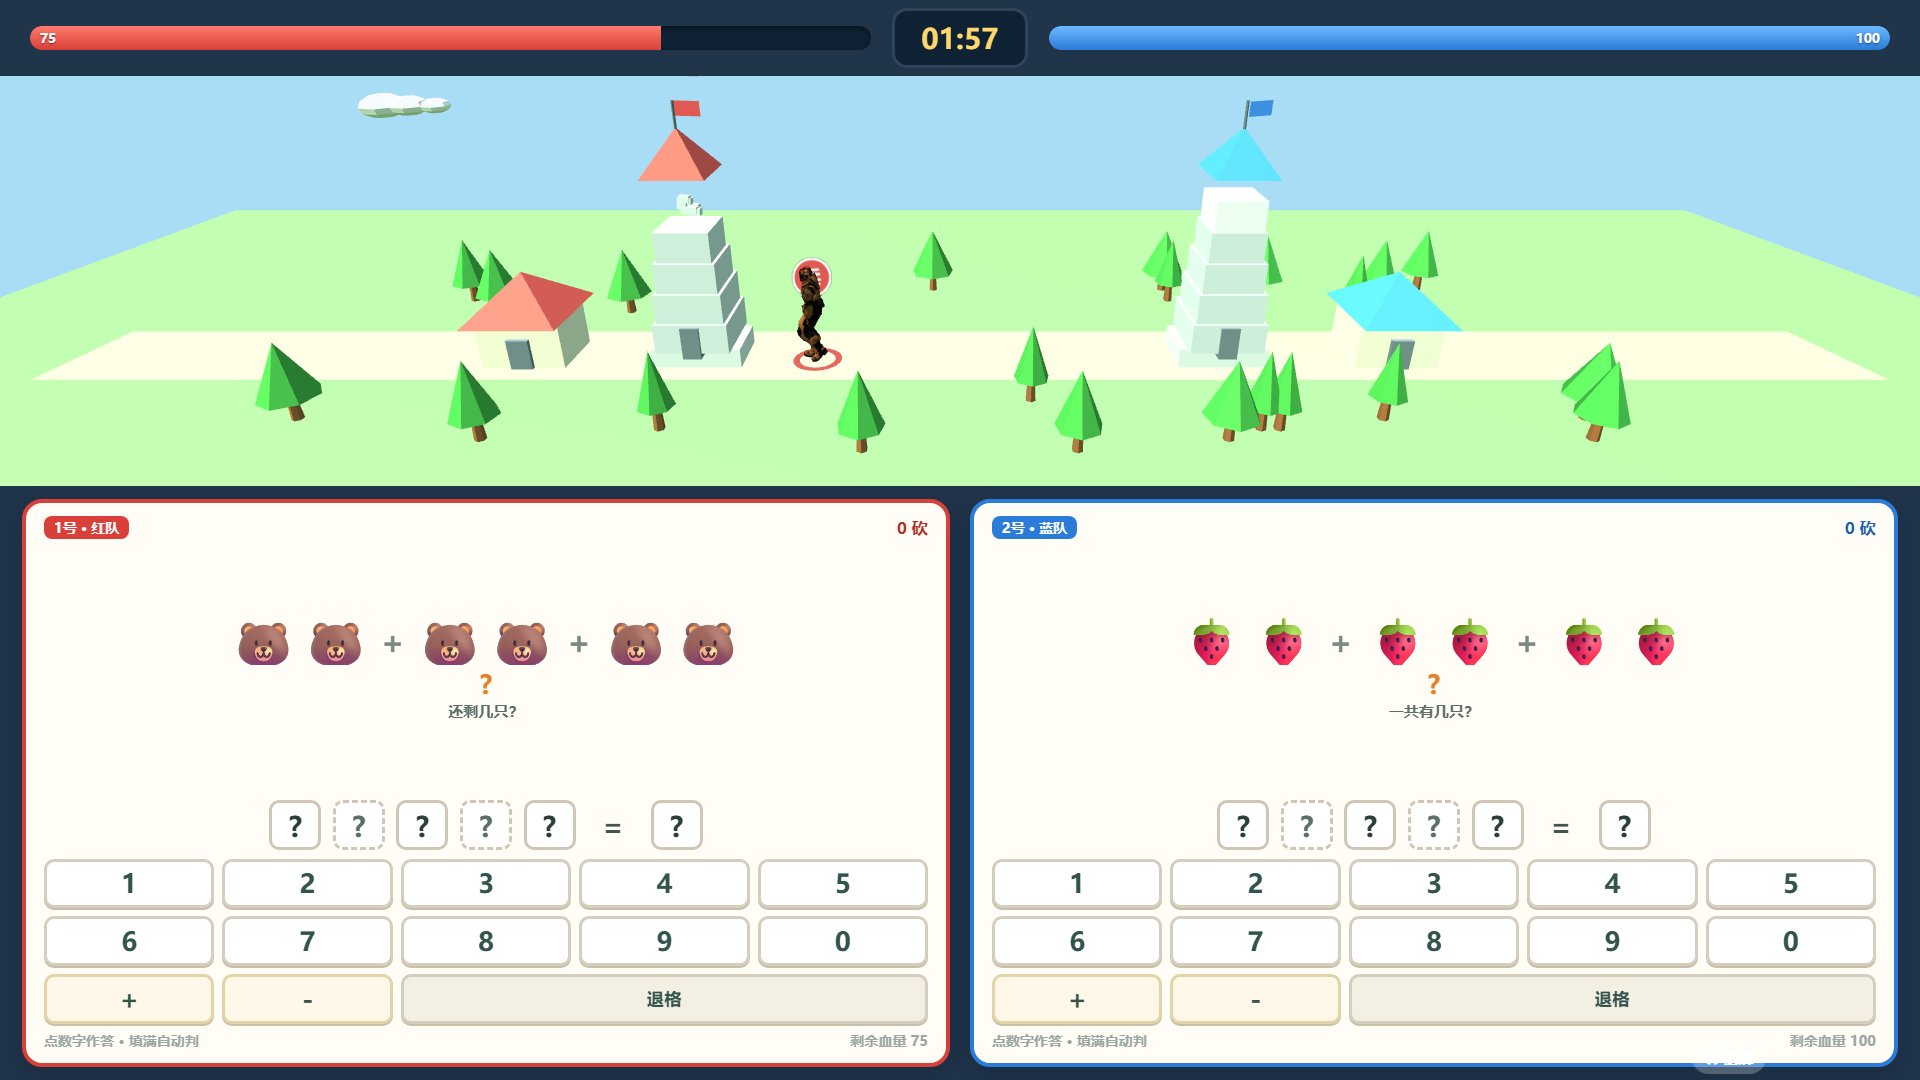
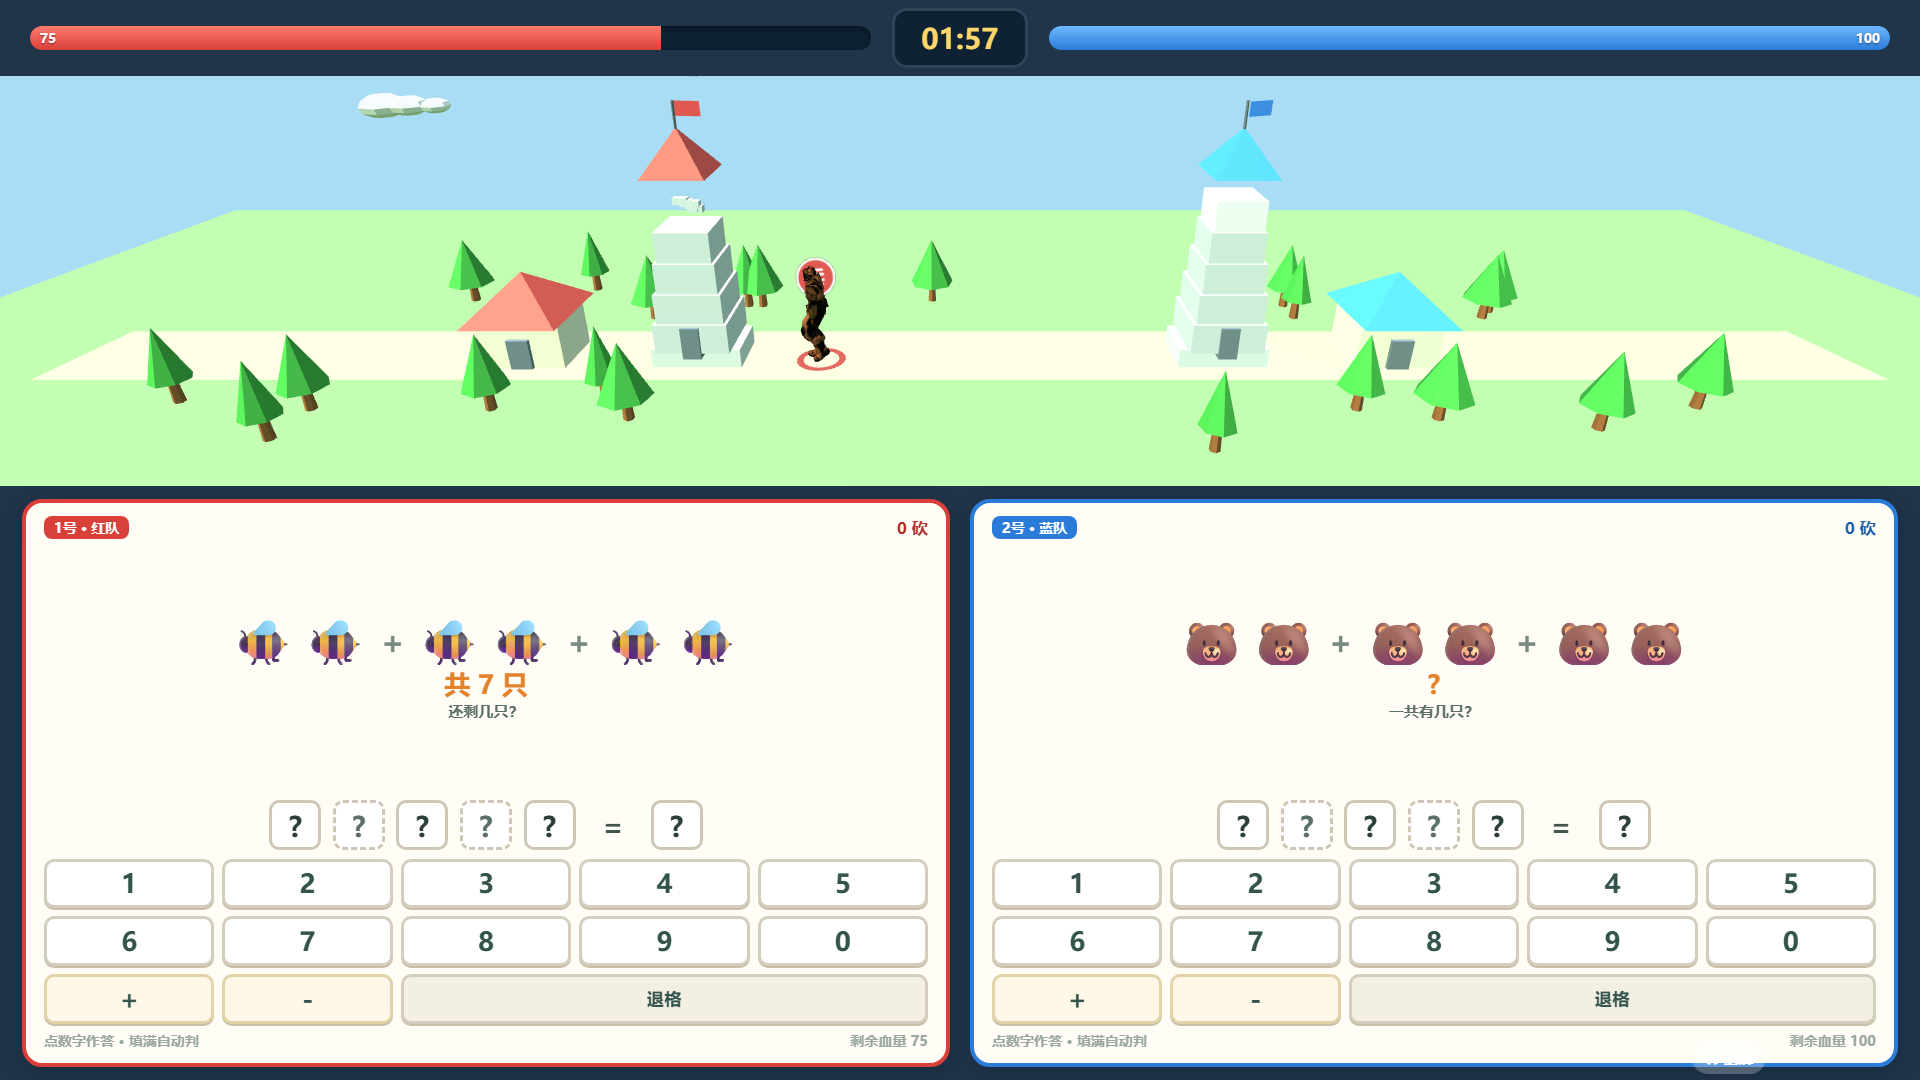
推塔对战重写核心：判定集中为judgeEquation(规则表见需求文档20)；连减图改总数在前不划+标共N只(修复2+2+2=6被判错的歧义)；想加算减宽容真正生效(原条件恒假bug)；运算符落槽修复(第二符号被覆盖致连加减永判错)；答对-51=6次推平

diff --git a/小学一年级/推塔口算对战.html b/小学一年级/推塔口算对战.html
@@ -226,9 +226,10 @@ function buildQuestion(){
     const a=1+rand(5),b=1+rand(8-a),c=1+rand(10-a-b);
     return {kind:roll,arity:3,op:'+',nums:[a,b,c],res:a+b+c,fig:fig([[a,false],[b,false],[c,false]],'?'),qtext:'一共有几只？'};
   }
-  if(roll==='sub3'){         /* 连减 ▢-▢-▢=▢（划掉两组） */
-    const t=5+rand(6),b1=1+rand(2),b2=1+rand(Math.max(1,Math.min(3,t-b1-1)));
-    return {kind:roll,arity:3,op:'-',nums:[t,b1,b2],res:t-b1-b2,fig:fig([[t-b1-b2,false],[b1,true],[b2,true]],'?'),qtext:'还剩几只？'};
+  if(roll==='sub3'){         /* 连减 ▢-▢-▢=▢（总数在前不划 → 划掉组在后，防歧义画法） */
+    const t=5+rand(6),b1=1+rand(2),b2=1+rand(Math.max(1,Math.min(3,t-b1-2)));
+    return {kind:roll,arity:3,op:'-',nums:[t,b1,b2],res:t-b1-b2,
+      fig:fig([[t,false],[b1,true],[b2,true]],'共 '+t+' 只'),qtext:'还剩几只？'};
   }
   /* plain：纯算式连加/连减 */
   if(Math.random()<.5){
@@ -361,10 +362,11 @@ function pressKey(ti,k){
     renderPanel(ti);return;
   }
   if(k==='+'||k==='-'){
-    let oi=0;
-    if(t.cur&&t.cur.startsWith('op'))oi=Number(t.cur[2]);
-    else{while(oi<t.q.arity-1&&t.ops[oi])oi++;if(oi>=t.q.arity-1)oi=t.q.arity-2;}
-    t.ops[oi]=k;t.cur='op'+oi;renderPanel(ti);return;
+    const nOp=t.q.arity-1;
+    let oi;
+    if(t.clicked&&t.cur&&t.cur.startsWith('op'))oi=Number(t.cur[2]);   /* 点选了符号槽：改这一位 */
+    else{oi=0;while(oi<nOp&&t.ops[oi])oi++;if(oi>=nOp)oi=nOp-1;}       /* 顺序：落第一个空符号槽 */
+    t.ops[oi]=k;t.cur='op'+oi;t.clicked=false;renderPanel(ti);return;
   }
   /* 数字：点选过的槽直接改；顺序作答落第一个空槽；
      刚落了 1 位的槽再按数字，能拼成 ≤10 的两位就拼（被减数 10 靠它输入） */
@@ -388,15 +390,32 @@ function pressKey(ti,k){
   if(filledNums&&allOps){judge(ti);return;}
   renderPanel(ti);
 }
+/* ================= 判定规则表（⚠ 唯一口径，改规则只动这个函数 + 需求文档表 + 回归断言） =================
+   ① add     看图求总数：op 全 '+'，数字与结果全匹配
+   ② part    求另一部分：标准 total−cut=res 且 '-'；
+             宽容（想加算减）：cut+res=total 或 res+cut=total 且 '+'
+   ③ add3    连加：op 全 '+'，数字与结果全匹配
+   ④ sub3    连减：op 全 '-'，数字与结果全匹配（不留加法宽容，防歧义）
+   ⑤ plain   纯算式：同 ③/④ */
+function judgeEquation(q,ans,ops){
+  const n=q.arity;
+  const okOps=[];for(let i=0;i<n-1;i++)okOps.push(ops[i]===q.op);
+  const numsOk=[];for(let i=0;i<n;i++)numsOk.push(Number(ans['n'+i])===q.nums[i]);
+  const resOk=Number(ans['res'])===q.res;
+  const okOpsAll=okOps.every(Boolean),numsAll=numsOk.every(Boolean);
+  if(q.kind==='part'&&ops[0]==='+'){
+    const total=q.nums[0],cut=q.nums[1],res=q.res;
+    const n0=Number(ans['n0']),n1=Number(ans['n1']);
+    const alt=(n0===cut&&n1===res)||(n0===res&&n1===cut);
+    if(alt&&Number(ans['res'])===total)return {ok:true,rule:'part-alt'};
+  }
+  return {ok:okOpsAll&&numsAll&&resOk,rule:'std'};
+}
 function judge(ti){
   const t=S.teams[ti],q=t.q;
-  const okOps=t.ops.slice(0,q.arity-1).every(o=>o===q.op);
-  const numsOk=q.nums.every((v,i)=>Number(t.ans['n'+i])===v);
-  const resOk=Number(t.ans['res'])===q.res;
-  /* 求另一部分宽容：想加算减（划掉+剩下=总数）也算对 */
-  const altOk=q.kind==='part'&&t.ops[0]==='+'&&Number(t.ans['res'])===q.nums[0]&&
-    ((Number(t.ans['n0'])===q.res&&Number(t.ans['n1'])===q.nums[1])||(Number(t.ans['n0'])===q.nums[1]&&Number(t.ans['n1'])===q.res));
-  const ok=(okOps&&numsOk&&resOk)||altOk;
+  const r=judgeEquation(q,t.ans,t.ops);
+
+  const ok=r.ok;
   if(ok){
     t.judging=true;t.solved++;
     const fl=document.createElement('div');fl.className='goodflash';fl.textContent='✓ 答对！出兵';
@@ -422,10 +441,13 @@ function spawnSoldier(ti){
   const foe=1-ti;
   if(B3D&&B3D.ready)spawn3D(ti);else spawn2D(ti);
   setTimeout(()=>{
-    const chops=0;
+    /* 三挥伤害 6/6/5 → 每次答对 -51，答对 6 次推平 */
+    const dmgs=[6,6,5];let chops=0;
     const iv=setInterval(()=>{
-      hitTower(foe);
+      hitTower(foe,dmgs[Math.min(chops,dmgs.length-1)]);
+      chops++;
       if(B3D&&B3D.ready)chopPulse3D(ti);
+      if(chops>=3)clearInterval(iv);
     },450);
     setTimeout(()=>{clearInterval(iv);},3*450+50);
   },1700);
@@ -443,14 +465,16 @@ function spawn2D(ti){
   setTimeout(()=>{s.classList.remove('walking');s.classList.add('atk');
     setTimeout(()=>{s.classList.add('done');setTimeout(()=>s.remove(),520);},3*450);},1700);
 }
-function hitTower(ti){
-  S.hp[ti]=Math.max(0,S.hp[ti]-7);
+function hitTower(ti,dmg){
+  if(window.__hplog)window.__hplog.push(ti+":"+dmg+"→"+Math.max(0,S.hp[ti]-dmg));
+  dmg=dmg||7;
+  S.hp[ti]=Math.max(0,S.hp[ti]-dmg);
   renderHP();
   if(B3D&&B3D.ready){hitTower3D(ti);}
   else{
     const box=$('tower'+(ti===0?'L':'R'));
     box.classList.remove('hit');void box.offsetWidth;box.classList.add('hit');
-    const before=Math.ceil((S.hp[ti]+7)/20),after=Math.ceil(S.hp[ti]/20);
+    const before=Math.ceil((S.hp[ti]+dmg)/20),after=Math.ceil(S.hp[ti]/20);
     if(after<before)spawnDebris(ti,after);
     if(box.querySelector('svg'))box.innerHTML=towerSVG(S.hp[ti],ti===0?'L':'R');
   }

diff --git a/test_tuita.js b/test_tuita.js
@@ -191,14 +191,14 @@ __okT($('panel0')._html.indexOf('确定') < 0 && $('panel0')._html.indexOf('＋'
   const foe = 1;
   const hpBefore = S.hp[foe];
   const q = S.teams[0].q;
-  /* 依次按运算符与数字（自动判定） */
-  T.pressKey(0, q.op);
+    /* 依次按运算符与数字（自动判定） */
+  for(let oi=0;oi<q.arity-1;oi++)T.pressKey(0, q.op);
   q.nums.forEach(v => { String(v).split('').forEach(ch => T.pressKey(0, Number(ch))); });
   T.pressKey(0, Number(q.res));
-  __okT(S.teams[0].solved === 1, '4 答对计砍1次');
+      __okT(S.teams[0].solved === 1, '4 答对计砍1次');
   __okT($('field')._html.indexOf('soldier') >= 0 || $('field')._children.length > 0, '4 战场上出现小兵');
   flush(6000);   /* 走路1.7s+砍3次+换题 全部跑完 */
-  __okT(S.hp[foe] === hpBefore - 21, '4 出兵砍塔对面-21', S.hp[foe] + ' vs ' + hpBefore);
+  __okT(S.hp[foe] === hpBefore - 17, '4 出兵砍塔对面-17', S.hp[foe] + ' vs ' + hpBefore);
   __okT(!!S.teams[0].q, '4 判定后换新题');
 }
 
@@ -207,7 +207,7 @@ __okT($('panel0')._html.indexOf('确定') < 0 && $('panel0')._html.indexOf('＋'
   const q = S.teams[1].q;
   const hpBefore = S.hp[0];
   /* 填一个必错的数：res 填 0（若 res 恰为 0 则填 1） */
-  T.pressKey(1, q.op);
+  for(let oi=0;oi<q.arity-1;oi++)T.pressKey(1, q.op);
   q.nums.forEach(v => String(v).split('').forEach(ch => T.pressKey(1, Number(ch))));
   T.pressKey(1, q.res + 2 <= 10 ? q.res + 2 : q.res - 3);
   __okT(S.hp[0] === hpBefore, '5 答错不掉对面血');
@@ -233,7 +233,7 @@ __okT($('panel0')._html.indexOf('确定') < 0 && $('panel0')._html.indexOf('＋'
   S.teams[0].q = { kind:'part', arity:2, op:'-', nums:[8,3], res:5, figMarked:{total:8,cut:3,em:'🐒'} };
   S.teams[0].ans = {}; S.teams[0].ops = []; S.teams[0].cur = null;
   T.pressKey(0, '+'); T.pressKey(0, 5); T.pressKey(0, 3); T.pressKey(0, 8);
-  __okT(S.teams[0].solved === 3, '6 想加算减也算对');
+    __okT(S.teams[0].solved === 3, '6 想加算减也算对');
   flush(6000);
 }
 
@@ -246,16 +246,17 @@ __okT($('panel0')._html.indexOf('确定') < 0 && $('panel0')._html.indexOf('＋'
   T.pressKey(1, 1);
     __okT(String(S.teams[1].ans['res']) === '1', '7 res 先落 1');
   T.pressKey(1, 0);
+        window.__hplog=[];
     __okT(Number(S.teams[1].ans['res']) === 10, '7 再按0组成10');
   flush(6000);
-  __okT(S.hp[0] === 79, '7 蓝队答对砍红方-21', String(S.hp[0]));
+    __okT(S.hp[0] === 83, '7 蓝队答对砍红方-17', String(S.hp[0]));
 }
 
 /* 7b. 被减数 10（两位数）连减输入：1 后按 0 拼进同一槽 */
 {
   S.teams[1].q = { kind:'plain', arity:3, op:'-', nums:[10,3,2], res:5, fig:null };
   S.teams[1].ans = {}; S.teams[1].ops = []; S.teams[1].cur = null; S.teams[1].clicked = false;
-  T.pressKey(1, '-');
+  T.pressKey(1, '-');T.pressKey(1, '-');
   T.pressKey(1, 1);
   __okT(String(S.teams[1].ans['n0']) === '1', '7b 先落 1');
   T.pressKey(1, 0);
@@ -268,10 +269,10 @@ __okT($('panel0')._html.indexOf('确定') < 0 && $('panel0')._html.indexOf('＋'
 /* 8. 推平：对面血量打到 0 → 结算胜利 */
 {
   const startHp = S.hp[1];
-  S.hp[1] = 7; T.renderHP();
+  S.hp[1] = 17; T.renderHP();
   const hpLog=[]; S.hpLog=hpLog;
   const q = S.teams[0].q;
-    T.pressKey(0, q.op);
+    for(let oi=0;oi<q.arity-1;oi++)T.pressKey(0, q.op);
   q.nums.forEach(v => String(v).split('').forEach(ch => T.pressKey(0, Number(ch))));
   T.pressKey(0, Number(q.res));
     flush(6000);

diff --git a/小学一年级需求文档文件夹/20口算推塔对战.md b/小学一年级需求文档文件夹/20口算推塔对战.md
@@ -6,27 +6,42 @@
 
 - 一年级上册两大难：看图列式（加减由学生自己判断）+ 连加连减（按顺序算）。全班分红蓝两队抢答巩固。
 
-## 规则（对应橘老师三条）
+## 规则（对应橘老师三条 · 2026-11-24 与老师确认的终版）
 
-1. 大屏左右各一座主塔（HP 100，分 5 格），全班分红队/蓝队，各答各的题。
-2. 出题：看图列式（求总数/求另一部分）/ 连加连减（三数）/ 混合；**答对的队出兵**：小兵从己方基地走过战场，到对面塔下挥剑砍 3 下，每砍一下对面塔 -7 血（一题合计 -20，5 题推平一座塔）；推光对面塔立即获胜。
-3. 一局 2 分钟倒计时（可选 3 分钟）；铃响时正在答的题算"最后一题"，答完结算。时间到未推平 → 塔剩余血多者胜，血相等平局。
+1. 大屏左右各一座主塔（血量 100，分 5 层），全班分红队/蓝队，各答各的题。
+2. **答对的队出兵**：小兵从己方基地走过战场，到对面塔下挥剑砍 3 下，**每次答对总伤 51（6+6+5）——答对 6 次推平一座塔**；推光对面塔立即获胜。
+3. 一局 2 分钟倒计时（可选 3 分钟）；铃响时正在答的题算"最后一题"，给 8 秒加时答完。时间到未推平 → 塔剩余血多者胜，血相等平局。
 4. 答错不扣塔：面板抖动红框，可重答（保护积极性，对应橘老师小经验）。
 
-## 出题（复用抓娃娃看图列式内核，10 以内）
+## 判定规则记录（⚠ 老师若要改"什么算对"，只改这一表 + 回归测试）
 
-- 题型池（设置可选：看图列式 / 连加连减 / 混合）：
-  - 求总数：两组 emoji（a 只、b 只），▢+▢=▢（运算符由学生判断）
-  - 求另一部分：总数+划掉一部分，▢−▢=▢（宽容判定：想加算减 3+2=5 也算对，与抓娃娃一致）
+> 2026-11-24 与老师确认。代码中集中在 `judgeEquation()` 一个函数，此表为唯一口径。
+
+| 题型 | 标准判对 | 额外判对（宽容） | 判错样例 |
+|---|---|---|---|
+| ① 看图求总数 | `a+b=res`，运算符必须 `+` | 无 | 用减法、结果错 |
+| ② 看图求另一部分 | `total−cut=res`，`−` | **想加算减**：`cut+res=total` 或 `res+cut=total`，`+` | 结果错 |
+| ③ 连加 | `a+b+c=res`，两个 `+` | 无 | 运算符/数错 |
+| ④ 连减 | `t−b1−b2=res`，两个 `−` | **无**（不留加法宽容，防歧义） | 混用加法 |
+| ⑤ 纯算式 | 同 ③/④（无图） | 同上 | 同上 |
+
+**连减图固定画法（防歧义）**：总数（不划）在前 → 划掉的组紧随在后（红线），总数组下方标「共 N 只」；求另一部分同理标「共 N 只」。
+**后续若老师要改判定口径**：只动 `judgeEquation()` + 此表 + 对应测试断言。
+
+## 出题（10 以内）
+
+- 题型池（设置可选：看图列式 / 连加连减 / 混合，默认混合）：
+  - 求总数：两组 emoji，▢+▢=▢（运算符由学生判断）
+  - 求另一部分：总数+划掉一部分，▢−▢=▢
   - 连加：三组图 ▢+▢+▢=▢
-  - 连减：总数划掉两组 ▢−▢−▢=▢
-  - 纯算式：无图直接算式（连加连减不按顺序混着出）
+  - 连减：总数在前不划 + 两组划掉，▢−▢−▢=▢
+  - 纯算式：无图直接算式
 - 所有数 ≤10，减法不出负数，连加和 ≤10；红蓝两队题目不同。
 
-## 交互（沿用抓娃娃已验证的点选式）
+## 交互（点数字即作答，与 3D 口算卡统一）
 
-- 点数字→填入第一个空槽（已点选的槽直接替换）；+ / − 键填运算槽（点运算槽可改）；退格删；确定→判定。
-- 红队确定键红底、蓝队蓝底。
+- 点数字→填入第一个空槽（已点选的槽直接替换；1 后按 0 拼成 10）；`＋/－` 填运算槽（点运算槽可改）；退格删。
+- **无确定键**：填满最后一个数自动判定（此前确定键会把 'ok' 塞进答案槽，已移除）。
 
 ## 动画要点（难点拆解）——已升级为真 3D
 
